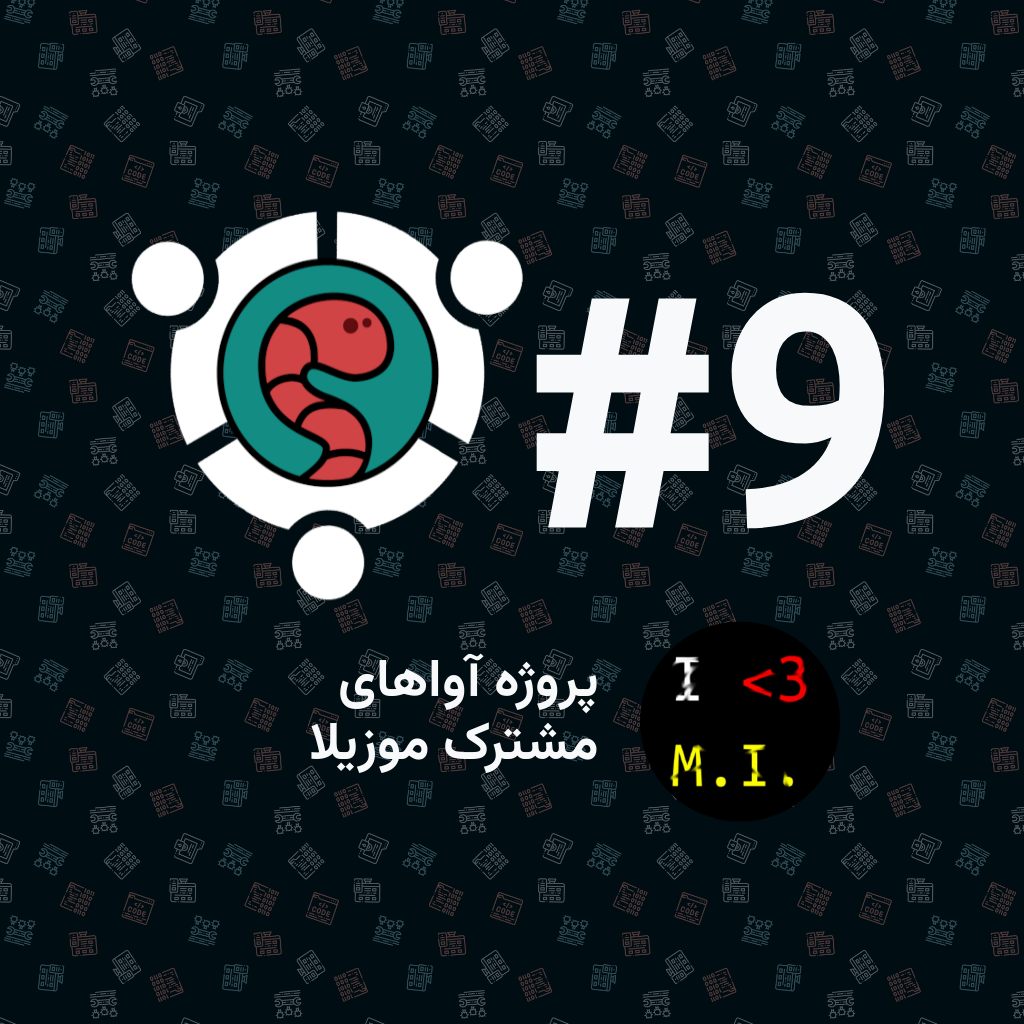
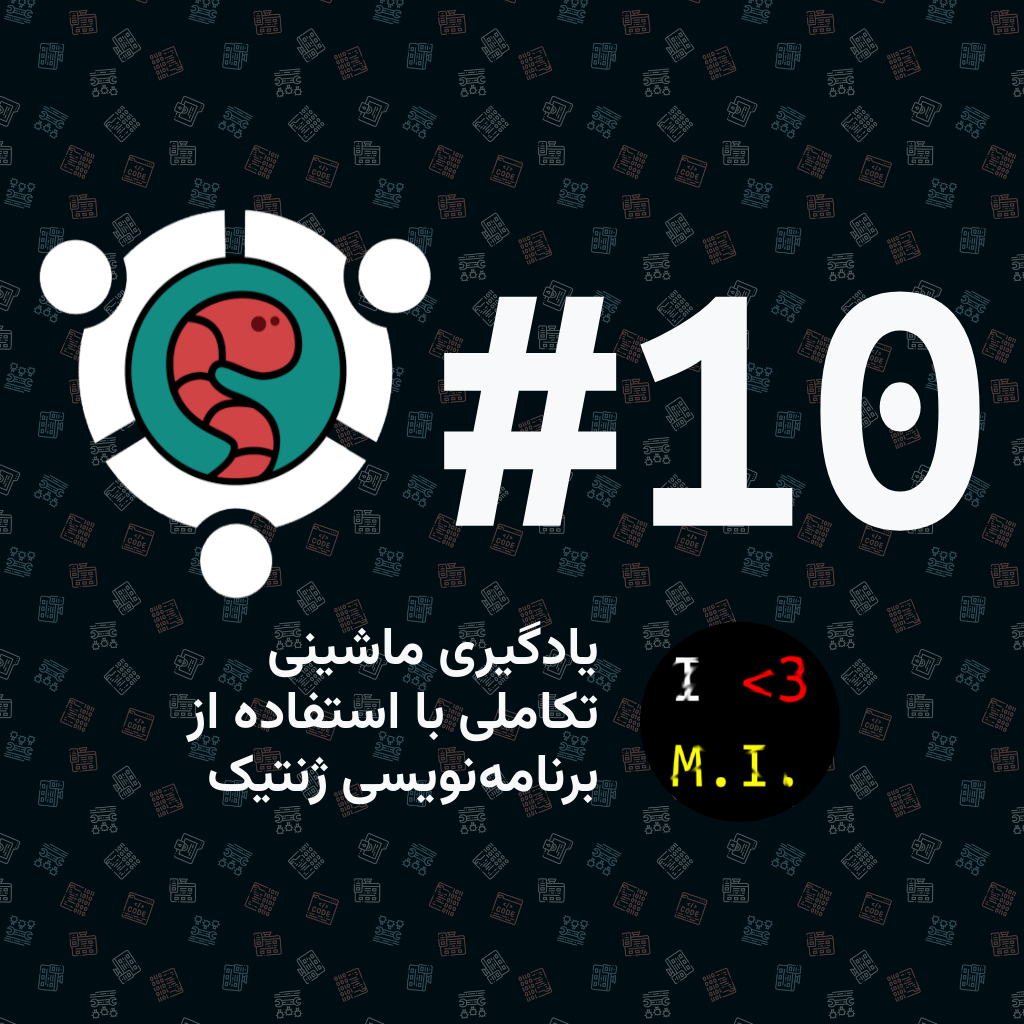
deploy: 797166385b3d1e8b34b5d1f4dee54e12b4ae4970

Changed region(s): [[0.0312, 0.1875, 0.9688, 0.5938], [0.1875, 0.5938, 0.5938, 0.7812]]

diff --git a/post.html b/post.html
@@ -58,14 +58,7 @@
                 var seconds = distance;
 
                 // Display the result in the element with id="demo"
-                var res = days + " روز";
-                res += days > 0 && hours > 0 ? " و " : ""
-                res += hours > 0 ? hours + " ساعت" : "";
-                res += hours > 0 && minutes > 0 ? " و " : ""
-                res += minutes > 0 ? minutes + " دقیقه" : "";
-                res += minutes > 0 && seconds > 0 ? " و " : ""
-                res += seconds > 0 ? seconds + " ثانیه" : "";
-                res += " دیگر"
+                var res = days + " روز دیگر";
                 const regex = /\d/g
                 let nums = '۰۱۲۳۴۵۶۷۸۹';
                 res = res.replace(regex, function (d) {
@@ -110,11 +103,9 @@
                 </div>
             </div>
             <div class="text-center">
-                <a href="https://pcworms.ir/pcworms-chatrooms/">
-                    <small id="link">
-                        لینک جلسه در گروه های ما در تلگرام و ماتریکس اعلام خواهد شد
-                    </small>
-                </a>
+                <small id="link">
+                    لینک جلسه در گروه های ما در تلگرام و ماتریکس اعلام خواهد شد
+                </small>
             </div>
         </div>
 </body>

diff --git a/preview.html b/preview.html
@@ -21,14 +21,14 @@
         <div class="row mt-2 text-center">
             <div class="col d-flex  align-items-center justify-content-center">
                 <img class="logo" src="./assets/meeting-logo.png" alt="">
-                <span class="big-text d-inline-block">#9</span>
+                <span class="big-text d-inline-block">#10</span>
             </div>
         </div>
         <div class="row justify-content-center">
             <div class="col-12 col-sm-10 col-md-8 p-2"">
                 <div class=" row align-items-center">
                 <div class="col">
-                    <h1 class="subject" dir="rtl">پروژه آواهای مشترک موزیلا</h1>
+                    <h1 class="subject" dir="rtl">یادگیری ماشینی تکاملی با استفاده از برنامهنویسی ژنتیک</h1>
                 </div>
                 <div class="col-auto float-start text-center"><img src="assets&#x2F;avatars&#x2F;farooqkz.png" class="profile"></div>
             </div>
